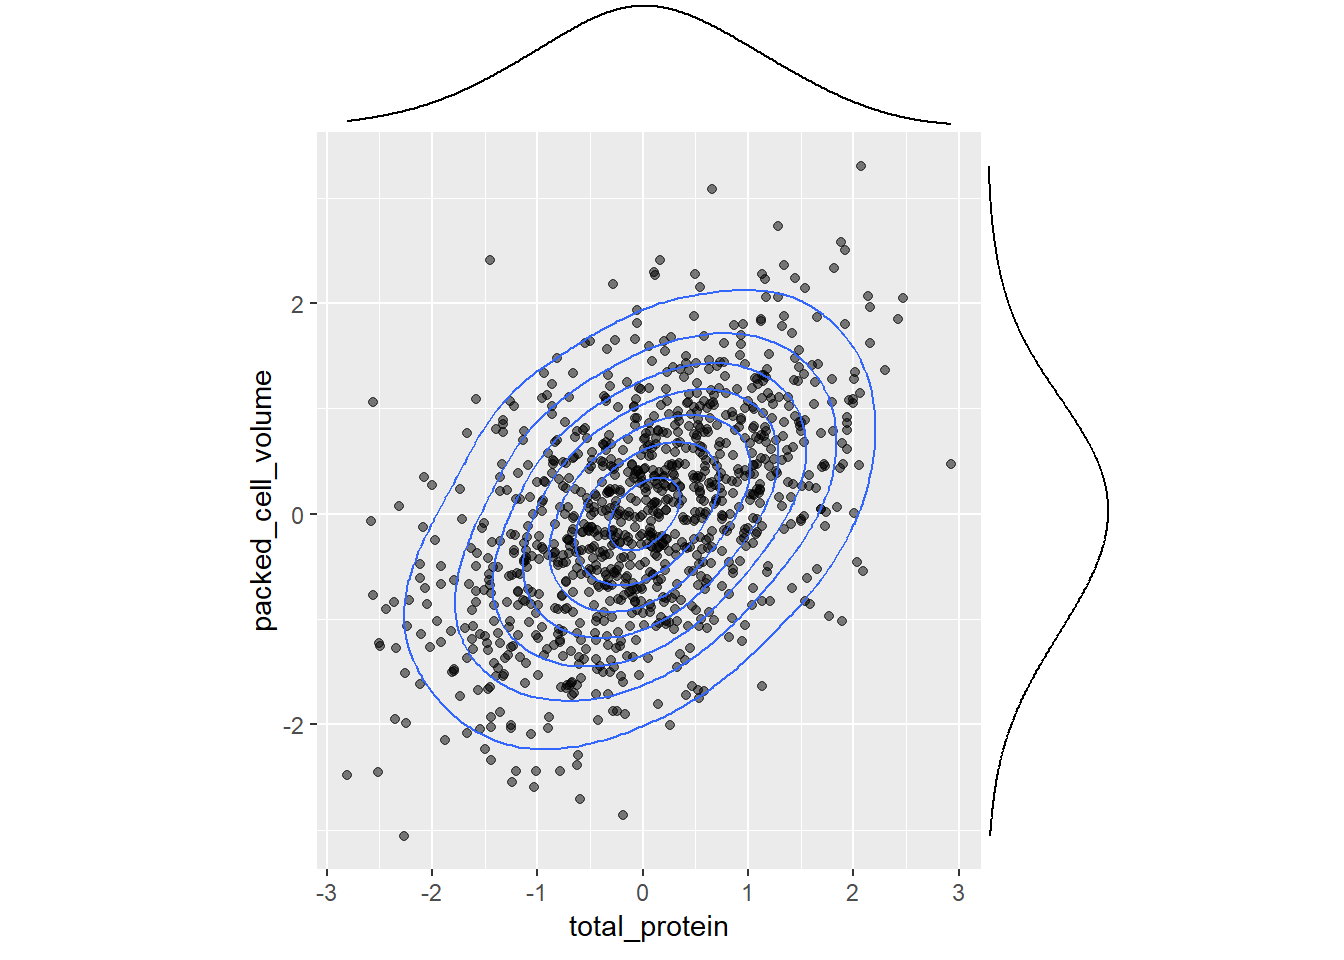
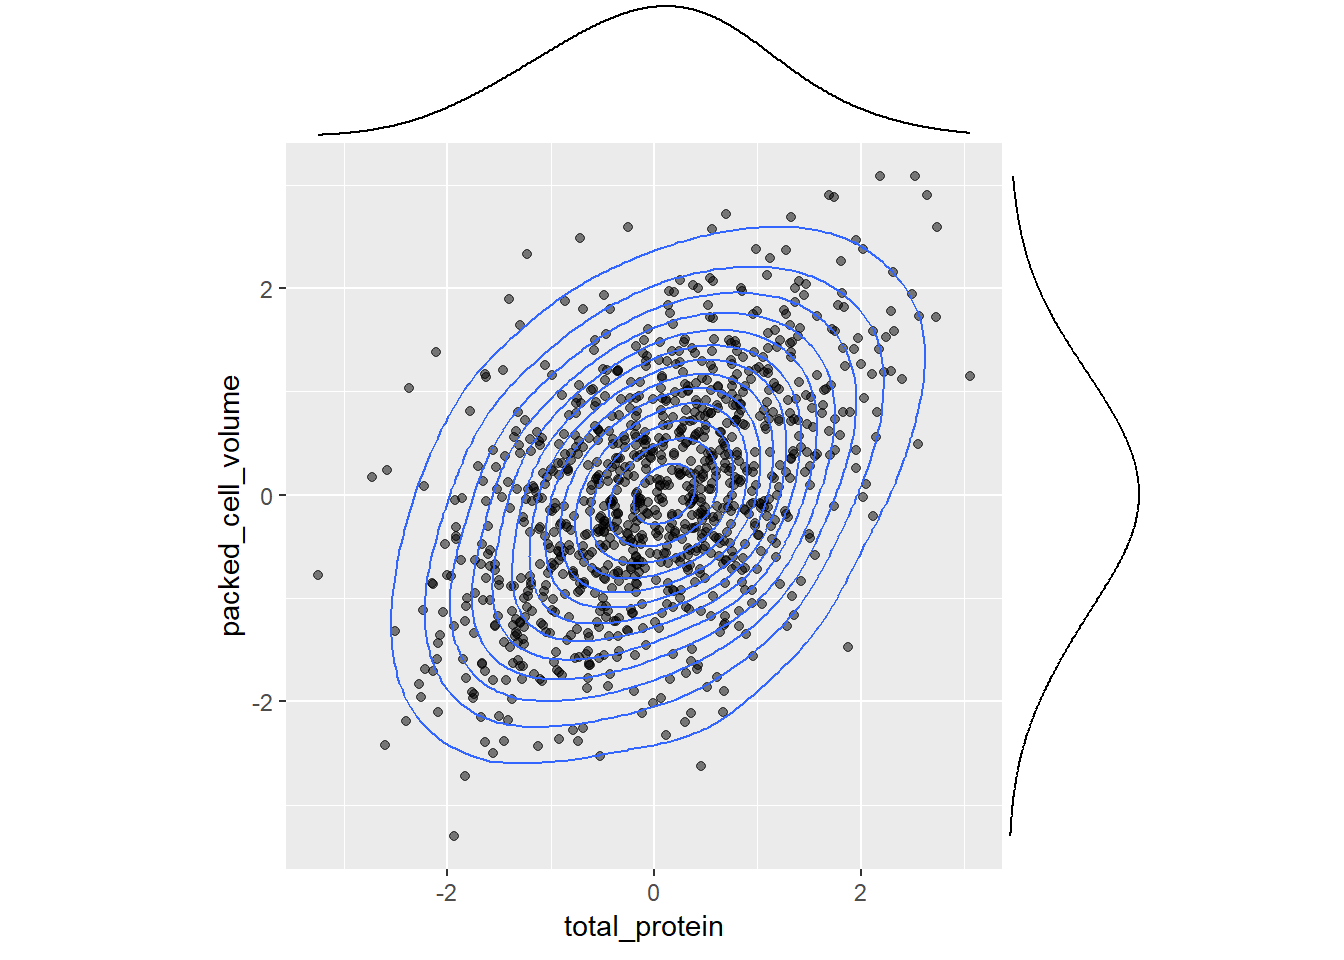
finally1

diff --git a/public/project2/index.html b/public/project2/index.html
@@ -146,8 +146,8 @@ ggMarginal(p,type=&quot;density&quot;,xparams = list(bw=.5), yparams=list(bw=.5)
 <p><img src="/project2_files/figure-html/unnamed-chunk-1-1.png" width="672" /></p>
 <pre class="r"><code>cov(df)</code></pre>
 <pre><code>##                    total_protein packed_cell_volume
-## total_protein          0.9535809          0.4799878
-## packed_cell_volume     0.4799878          0.9503051</code></pre>
+## total_protein          1.0224616          0.5143044
+## packed_cell_volume     0.5143044          1.0859387</code></pre>
 <p>Given the large sample size and further confirmed with the ggplot, the data meets the assumption of multivariate normality. The data also appears to meet the assumption of homogenaity of covariances from the values presented in the table. Given the significance of the overall MANOVA, additional tests were performed to test significance for each variable using univariate ANOVAs. After these were found to be significant, pairwise t.tests were performed to test p-values of each combination of tested variables. A total of five tests were performed, and as such, the probability of a type-one error was given to be 22.6%. However, because of these multiple comparisons a bonferroni’s coorection was determined, giving a new significant p-value of .01. Even with this adjustment, all p-values remained significant, signifying that both outcomes were found to differ significantly from one another in terms of total protein and packed cell volume values.</p>
 <pre class="r"><code>samp_distn&lt;-vector()
 for(i in 1:5000){
@@ -261,10 +261,10 @@ samp_distn&lt;-replicate(5000, {
 })
 
 samp_distn %&gt;% t %&gt;% as.data.frame %&gt;% summarize_all(sd)</code></pre>
-<pre><code>##   (Intercept) ageyoung       TP_c abdominal_distentionnone
-## 1    1.313559 1.958156 0.03546985                 1.803339
+<pre><code>##   (Intercept) ageyoung      TP_c abdominal_distentionnone
+## 1    1.335566 1.960023 0.0356775                 1.787117
 ##   abdominal_distentionsevere abdominal_distentionslight TP_c:surgeryyes
-## 1                   2.189547                   1.843865      0.05075057</code></pre>
+## 1                   2.191141                   1.887153      0.05073462</code></pre>
 <pre class="r"><code>fit&lt;-lm(packed_cell_volume~age+TP_c+abdominal_distention+surgery:TP_c, data=horse1)
 resids&lt;-fit$residuals 
 fitted&lt;-fit$fitted.values 
@@ -277,9 +277,9 @@ resid_resamp&lt;-replicate(5000,{
 
 resid_resamp%&gt;%t%&gt;%as.data.frame%&gt;%summarize_all(sd)</code></pre>
 <pre><code>##   (Intercept) ageyoung       TP_c abdominal_distentionnone
-## 1    1.322308 2.653905 0.03869236                 1.817873
+## 1    1.300071 2.596722 0.03892757                 1.771604
 ##   abdominal_distentionsevere abdominal_distentionslight TP_c:surgeryyes
-## 1                   2.207676                   1.816417      0.05077117</code></pre>
+## 1                    2.19078                   1.804828      0.05054979</code></pre>
 <p>The Bootstrapped standard errors caluculated were unexpectedly lower than all values from the original standard errors.This is an unusual finding given the Bootstrapped standard errors do not require assumptions to be met and thus a higher SE is expected. In addition, some Robust standard errors also did not increase, but rather decreased from the original. These decreases may have been becasue some violations in the data were met. The expected p-values for both Bootstrapped and Robust standard errors would likely be higher than the p-value for original, because they do not require assumptions to be met.</p>
 <pre class="r"><code>log_horse&lt;-horse%&gt;%mutate(y=ifelse(outcome==&quot;died&quot;,1,0))%&gt;%drop_na(abdominal_distention)
 head(log_horse)</code></pre>
@@ -456,53 +456,53 @@ lasso&lt;-glmnet(x,y,family=&quot;binomial&quot;,lambda=cv$lambda.1se)
 coef(lasso) </code></pre>
 <pre><code>## 47 x 1 sparse Matrix of class &quot;dgCMatrix&quot;
 ##                                           s0
-## (Intercept)                      1.226857538
-## ageyoung                         0.116508638
-## temp_of_extremitiescool         -0.139007025
-## temp_of_extremitiesNA            0.268228808
-## temp_of_extremitiesnormal        .          
-## temp_of_extremitieswarm         -0.198261505
-## peripheral_pulseincreased       -0.461115920
-## peripheral_pulseNA               0.019816827
-## peripheral_pulsenormal          -0.043082594
+## (Intercept)                      1.187066052
+## ageyoung                         0.093904350
+## temp_of_extremitiescool         -0.077716264
+## temp_of_extremitiesNA            0.274173882
+## temp_of_extremitiesnormal        0.012961828
+## temp_of_extremitieswarm         -0.166136917
+## peripheral_pulseincreased       -0.415380152
+## peripheral_pulseNA               .          
+## peripheral_pulsenormal           .          
 ## peripheral_pulsereduced          .          
-## mucous_membranebright_red        0.103498877
-## mucous_membranedark_cyanotic     0.375420320
+## mucous_membranebright_red        0.065534531
+## mucous_membranedark_cyanotic     0.346347580
 ## mucous_membraneNA                .          
-## mucous_membranenormal_pink      -0.096685486
-## mucous_membranepale_cyanotic     0.281839020
-## mucous_membranepale_pink         0.095455867
-## capillary_refill_timeless_3_sec  0.090530119
+## mucous_membranenormal_pink      -0.119221283
+## mucous_membranepale_cyanotic     0.264180085
+## mucous_membranepale_pink         0.077846661
+## capillary_refill_timeless_3_sec  0.103858774
 ## capillary_refill_timemore_3_sec  .          
-## capillary_refill_timeNA          0.020074623
-## paindepressed                    0.019454086
-## painextreme_pain                -0.140396622
-## painmild_pain                    0.066627847
-## painsevere_pain                 -0.133694540
-## peristalsishypermotile          -0.096492245
-## peristalsishypomotile            0.113200660
-## peristalsisNA                   -0.131273685
-## peristalsisnormal                0.234737297
-## abdominal_distentionnone        91.823472050
-## abdominal_distentionsevere      -4.144938255
-## abdominal_distentionslight      71.224584395
-## nasogastric_tubenone            -0.017574132
-## nasogastric_tubesignificant      0.095944382
-## nasogastric_tubeslight           0.152894165
-## rectal_exam_fecesdecreased      -0.047439706
-## rectal_exam_fecesincreased       0.097162075
-## rectal_exam_fecesNA              .          
-## rectal_exam_fecesnormal         -0.124169120
-## abdomendistend_small             0.180494992
-## abdomenfirm                     -0.347486966
-## abdomenNA                       -0.069711972
-## abdomennormal                   -0.188877521
-## abdomenother                    -0.365961061
-## packed_cell_volume              -0.247873929
-## total_protein                    0.048219852
+## capillary_refill_timeNA          .          
+## paindepressed                    0.054713245
+## painextreme_pain                 0.077293281
+## painmild_pain                   -0.101941096
+## painsevere_pain                  0.091323280
+## peristalsishypermotile          -0.050935230
+## peristalsishypomotile            0.132079115
+## peristalsisNA                   -0.123197686
+## peristalsisnormal                0.272609558
+## abdominal_distentionnone        89.351061133
+## abdominal_distentionsevere      -4.056741073
+## abdominal_distentionslight      69.295120062
+## nasogastric_tubenone            -0.057968356
+## nasogastric_tubesignificant      0.044924071
+## nasogastric_tubeslight           0.113822278
+## rectal_exam_fecesdecreased      -0.071183286
+## rectal_exam_fecesincreased       0.085099054
+## rectal_exam_fecesNA             -0.093317317
+## rectal_exam_fecesnormal         -0.152103908
+## abdomendistend_small             0.235291230
+## abdomenfirm                     -0.356209572
+## abdomenNA                       -0.001531667
+## abdomennormal                   -0.174829901
+## abdomenother                    -0.316352594
+## packed_cell_volume              -0.208354451
+## total_protein                    0.045521240
 ## outcomelived                     .          
-## y                               -0.004423189
-## logit                           93.967452163</code></pre>
+## y                                .          
+## logit                           91.467214940</code></pre>
 <pre class="r"><code>horse2&lt;-log_horse%&gt;%mutate(Warm_temp=ifelse(temp_of_extremities==&quot;warm&quot;,1,0))%&gt;%
   mutate(Normal_pink=ifelse(mucous_membrane==&quot;normal_pink&quot;,1,0))%&gt;%
   mutate(Hypermotile=ifelse(peristalsis==&quot;hypermotile&quot;,1,0))%&gt;%

diff --git a/content/project2.html b/content/project2.html
@@ -81,8 +81,8 @@ ggMarginal(p,type=&quot;density&quot;,xparams = list(bw=.5), yparams=list(bw=.5)
 <p><img src="/project2_files/figure-html/unnamed-chunk-1-1.png" width="672" /></p>
 <pre class="r"><code>cov(df)</code></pre>
 <pre><code>##                    total_protein packed_cell_volume
-## total_protein          0.9535809          0.4799878
-## packed_cell_volume     0.4799878          0.9503051</code></pre>
+## total_protein          1.0224616          0.5143044
+## packed_cell_volume     0.5143044          1.0859387</code></pre>
 <p>Given the large sample size and further confirmed with the ggplot, the data meets the assumption of multivariate normality. The data also appears to meet the assumption of homogenaity of covariances from the values presented in the table. Given the significance of the overall MANOVA, additional tests were performed to test significance for each variable using univariate ANOVAs. After these were found to be significant, pairwise t.tests were performed to test p-values of each combination of tested variables. A total of five tests were performed, and as such, the probability of a type-one error was given to be 22.6%. However, because of these multiple comparisons a bonferroni’s coorection was determined, giving a new significant p-value of .01. Even with this adjustment, all p-values remained significant, signifying that both outcomes were found to differ significantly from one another in terms of total protein and packed cell volume values.</p>
 <pre class="r"><code>samp_distn&lt;-vector()
 for(i in 1:5000){
@@ -196,10 +196,10 @@ samp_distn&lt;-replicate(5000, {
 })
 
 samp_distn %&gt;% t %&gt;% as.data.frame %&gt;% summarize_all(sd)</code></pre>
-<pre><code>##   (Intercept) ageyoung       TP_c abdominal_distentionnone
-## 1    1.313559 1.958156 0.03546985                 1.803339
+<pre><code>##   (Intercept) ageyoung      TP_c abdominal_distentionnone
+## 1    1.335566 1.960023 0.0356775                 1.787117
 ##   abdominal_distentionsevere abdominal_distentionslight TP_c:surgeryyes
-## 1                   2.189547                   1.843865      0.05075057</code></pre>
+## 1                   2.191141                   1.887153      0.05073462</code></pre>
 <pre class="r"><code>fit&lt;-lm(packed_cell_volume~age+TP_c+abdominal_distention+surgery:TP_c, data=horse1)
 resids&lt;-fit$residuals 
 fitted&lt;-fit$fitted.values 
@@ -212,9 +212,9 @@ resid_resamp&lt;-replicate(5000,{
 
 resid_resamp%&gt;%t%&gt;%as.data.frame%&gt;%summarize_all(sd)</code></pre>
 <pre><code>##   (Intercept) ageyoung       TP_c abdominal_distentionnone
-## 1    1.322308 2.653905 0.03869236                 1.817873
+## 1    1.300071 2.596722 0.03892757                 1.771604
 ##   abdominal_distentionsevere abdominal_distentionslight TP_c:surgeryyes
-## 1                   2.207676                   1.816417      0.05077117</code></pre>
+## 1                    2.19078                   1.804828      0.05054979</code></pre>
 <p>The Bootstrapped standard errors caluculated were unexpectedly lower than all values from the original standard errors.This is an unusual finding given the Bootstrapped standard errors do not require assumptions to be met and thus a higher SE is expected. In addition, some Robust standard errors also did not increase, but rather decreased from the original. These decreases may have been becasue some violations in the data were met. The expected p-values for both Bootstrapped and Robust standard errors would likely be higher than the p-value for original, because they do not require assumptions to be met.</p>
 <pre class="r"><code>log_horse&lt;-horse%&gt;%mutate(y=ifelse(outcome==&quot;died&quot;,1,0))%&gt;%drop_na(abdominal_distention)
 head(log_horse)</code></pre>
@@ -391,53 +391,53 @@ lasso&lt;-glmnet(x,y,family=&quot;binomial&quot;,lambda=cv$lambda.1se)
 coef(lasso) </code></pre>
 <pre><code>## 47 x 1 sparse Matrix of class &quot;dgCMatrix&quot;
 ##                                           s0
-## (Intercept)                      1.226857538
-## ageyoung                         0.116508638
-## temp_of_extremitiescool         -0.139007025
-## temp_of_extremitiesNA            0.268228808
-## temp_of_extremitiesnormal        .          
-## temp_of_extremitieswarm         -0.198261505
-## peripheral_pulseincreased       -0.461115920
-## peripheral_pulseNA               0.019816827
-## peripheral_pulsenormal          -0.043082594
+## (Intercept)                      1.187066052
+## ageyoung                         0.093904350
+## temp_of_extremitiescool         -0.077716264
+## temp_of_extremitiesNA            0.274173882
+## temp_of_extremitiesnormal        0.012961828
+## temp_of_extremitieswarm         -0.166136917
+## peripheral_pulseincreased       -0.415380152
+## peripheral_pulseNA               .          
+## peripheral_pulsenormal           .          
 ## peripheral_pulsereduced          .          
-## mucous_membranebright_red        0.103498877
-## mucous_membranedark_cyanotic     0.375420320
+## mucous_membranebright_red        0.065534531
+## mucous_membranedark_cyanotic     0.346347580
 ## mucous_membraneNA                .          
-## mucous_membranenormal_pink      -0.096685486
-## mucous_membranepale_cyanotic     0.281839020
-## mucous_membranepale_pink         0.095455867
-## capillary_refill_timeless_3_sec  0.090530119
+## mucous_membranenormal_pink      -0.119221283
+## mucous_membranepale_cyanotic     0.264180085
+## mucous_membranepale_pink         0.077846661
+## capillary_refill_timeless_3_sec  0.103858774
 ## capillary_refill_timemore_3_sec  .          
-## capillary_refill_timeNA          0.020074623
-## paindepressed                    0.019454086
-## painextreme_pain                -0.140396622
-## painmild_pain                    0.066627847
-## painsevere_pain                 -0.133694540
-## peristalsishypermotile          -0.096492245
-## peristalsishypomotile            0.113200660
-## peristalsisNA                   -0.131273685
-## peristalsisnormal                0.234737297
-## abdominal_distentionnone        91.823472050
-## abdominal_distentionsevere      -4.144938255
-## abdominal_distentionslight      71.224584395
-## nasogastric_tubenone            -0.017574132
-## nasogastric_tubesignificant      0.095944382
-## nasogastric_tubeslight           0.152894165
-## rectal_exam_fecesdecreased      -0.047439706
-## rectal_exam_fecesincreased       0.097162075
-## rectal_exam_fecesNA              .          
-## rectal_exam_fecesnormal         -0.124169120
-## abdomendistend_small             0.180494992
-## abdomenfirm                     -0.347486966
-## abdomenNA                       -0.069711972
-## abdomennormal                   -0.188877521
-## abdomenother                    -0.365961061
-## packed_cell_volume              -0.247873929
-## total_protein                    0.048219852
+## capillary_refill_timeNA          .          
+## paindepressed                    0.054713245
+## painextreme_pain                 0.077293281
+## painmild_pain                   -0.101941096
+## painsevere_pain                  0.091323280
+## peristalsishypermotile          -0.050935230
+## peristalsishypomotile            0.132079115
+## peristalsisNA                   -0.123197686
+## peristalsisnormal                0.272609558
+## abdominal_distentionnone        89.351061133
+## abdominal_distentionsevere      -4.056741073
+## abdominal_distentionslight      69.295120062
+## nasogastric_tubenone            -0.057968356
+## nasogastric_tubesignificant      0.044924071
+## nasogastric_tubeslight           0.113822278
+## rectal_exam_fecesdecreased      -0.071183286
+## rectal_exam_fecesincreased       0.085099054
+## rectal_exam_fecesNA             -0.093317317
+## rectal_exam_fecesnormal         -0.152103908
+## abdomendistend_small             0.235291230
+## abdomenfirm                     -0.356209572
+## abdomenNA                       -0.001531667
+## abdomennormal                   -0.174829901
+## abdomenother                    -0.316352594
+## packed_cell_volume              -0.208354451
+## total_protein                    0.045521240
 ## outcomelived                     .          
-## y                               -0.004423189
-## logit                           93.967452163</code></pre>
+## y                                .          
+## logit                           91.467214940</code></pre>
 <pre class="r"><code>horse2&lt;-log_horse%&gt;%mutate(Warm_temp=ifelse(temp_of_extremities==&quot;warm&quot;,1,0))%&gt;%
   mutate(Normal_pink=ifelse(mucous_membrane==&quot;normal_pink&quot;,1,0))%&gt;%
   mutate(Hypermotile=ifelse(peristalsis==&quot;hypermotile&quot;,1,0))%&gt;%
